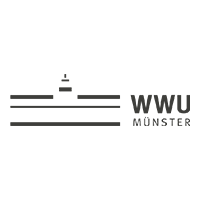
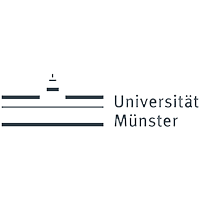
A

Changed region(s): [[0.0, 0.36, 1.0, 0.66]]

diff --git a/partners.html b/partners.html
@@ -96,9 +96,9 @@
         <div class="row align-items-md-stretch" style="margin-top:4rem;margin-bottom:4rem">
             <div class="col-md-6">
                 <div class="h-100 p-3 rounded-3">
-                    <h5>Westfaelische Wilhelms-Universitaet, Muenster (Germany)</h5>
+                    <h5>Universität Münster (Uni MS), Muenster (Germany)</h5>
                     <p>
-                        Muenster University (WWU) was founded in 1780, is one of the largest institutions of higher education in Germany with approx. 46,000 students,600 professors and 4500 researchers. WWU is among the top universities within the Excellence of the German federal government.<br><br> With approx.800 PhDs awarded annually, WWU is one of the five most important research institutions in Germany. Linking research and teaching, the excellence ranking by the German Centre of Higher Education Development (CHE) has rewarded WWU as first-rate place for junior researchers. <br><br>WWU participates with Institute of Sport and Exercises Sciences (ISES)as part of the faculty of psychology & exercise science. ISES includes 6 departments dealing with education, learning, development &maintenance of individual physical, cognitive &social resources. Targeting preschool children up to seniors, from professional athletes to preventive exercise and daily activity.
+                        Muenster University (Uni MS) was founded in 1780, is one of the largest institutions of higher education in Germany with approx. 46,000 students,600 professors and 4500 researchers. Uni MS is among the top universities within the Excellence of the German federal government.<br><br> With approx.800 PhDs awarded annually, Uni MS is one of the five most important research institutions in Germany. Linking research and teaching, the excellence ranking by the German Centre of Higher Education Development (CHE) has rewarded Uni MS as first-rate place for junior researchers. <br><br>Uni MS participates with Institute of Sport and Exercises Sciences (ISES)as part of the faculty of psychology & exercise science. ISES includes 6 departments dealing with education, learning, development &maintenance of individual physical, cognitive &social resources. Targeting preschool children up to seniors, from professional athletes to preventive exercise and daily activity.
                     </p>
                 </div>
             </div>
